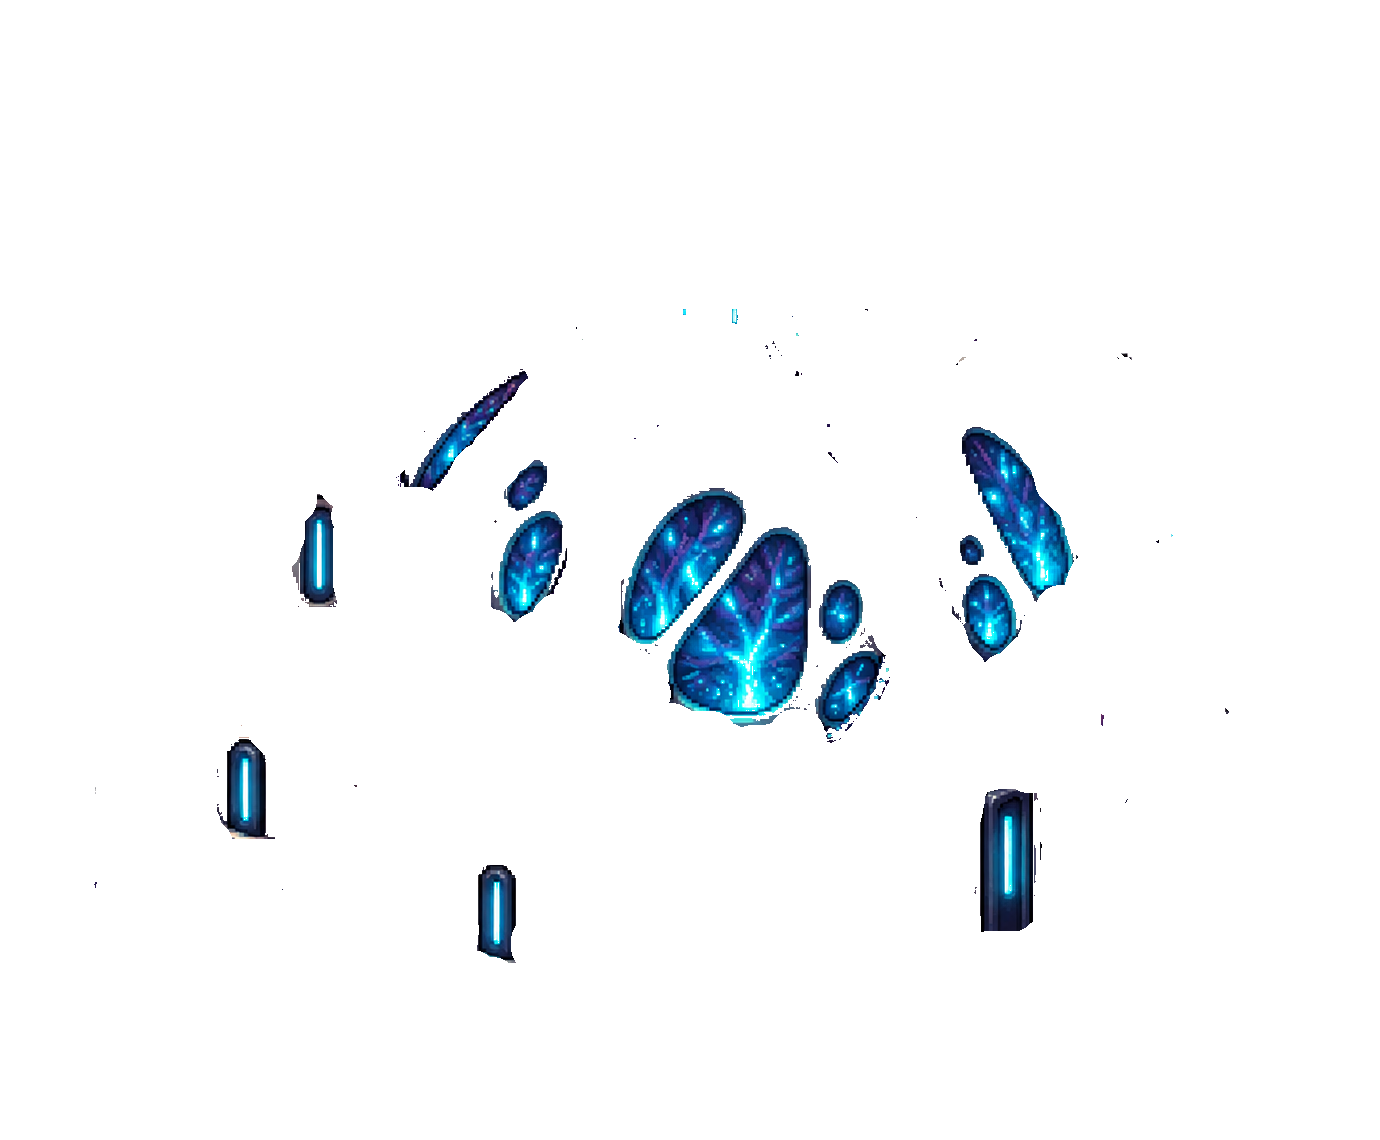
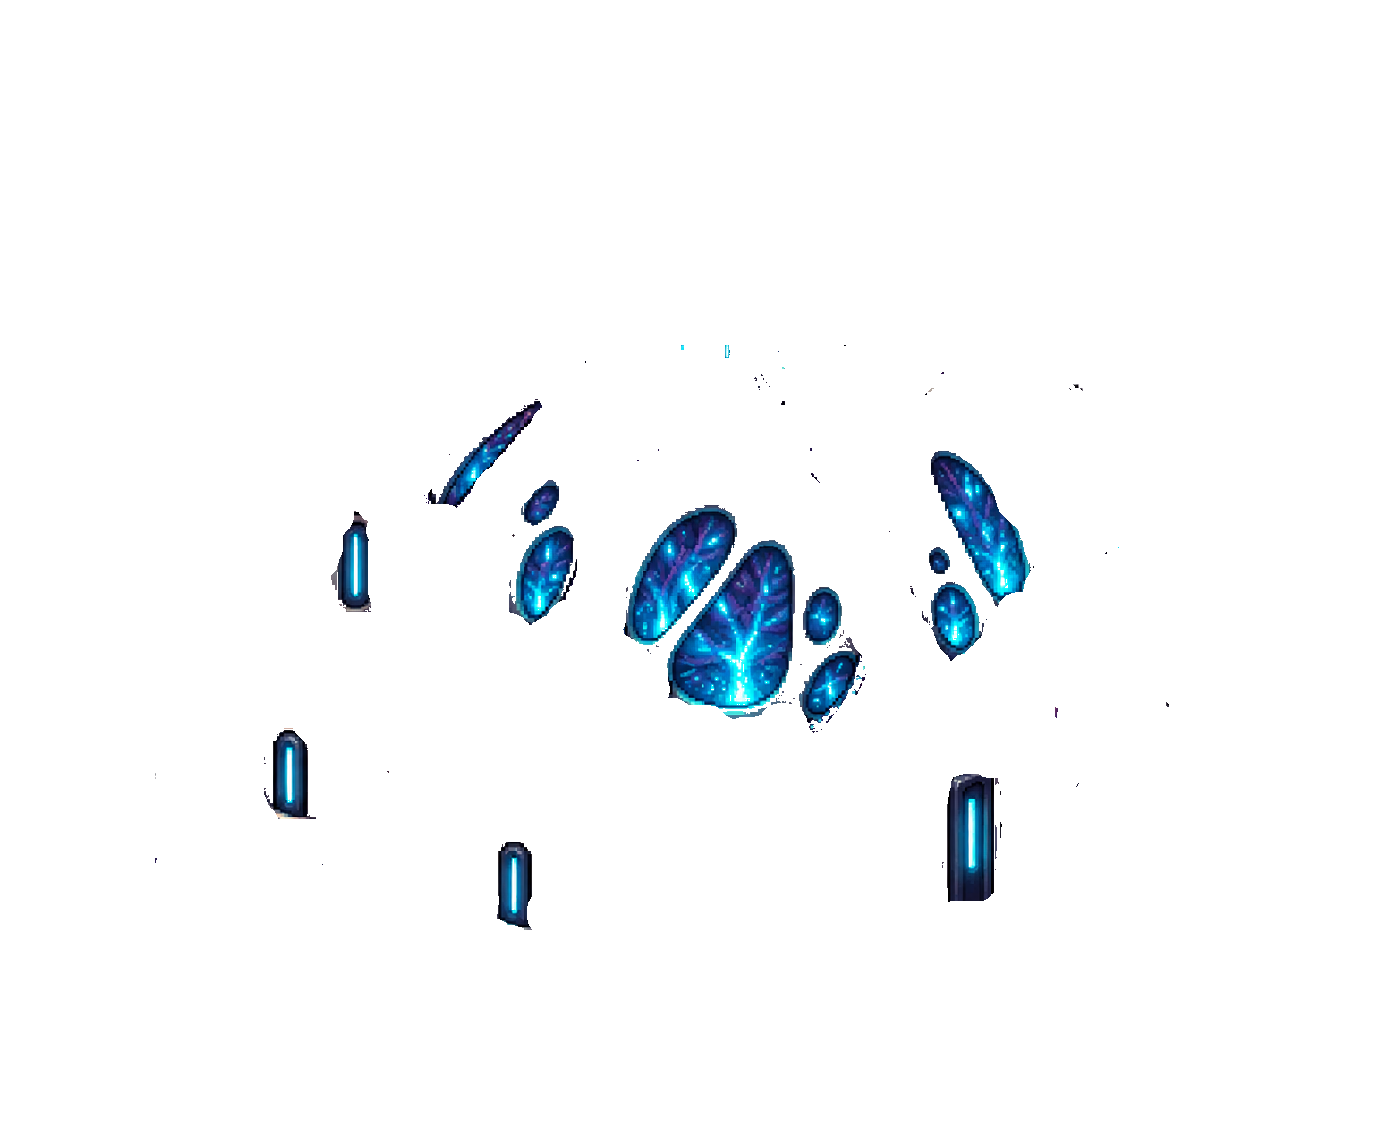
(polish) : the bioBattery assets are now sharing the same exact size

diff --git a/src/App.tsx b/src/App.tsx
@@ -65,9 +65,6 @@ function App() {
     "inactive",
   );
 
-  // const [hasBioBatteryBeenAnalyzed, setHasBioBatteryBeenAnalyzed] =
-  //   useState<boolean>(false);
-
   useEffect(() => {
     loadAssets()
       .then(setAssets)
@@ -210,7 +207,6 @@ function App() {
             newlyUnlockedAbility={newlyUnlockedAbility}
             bioBatteryStatus={bioBatteryStatus}
             unlockedAbilities={unlockedAbilities}
-            // hasBioBatteryBeenAnalyzed={hasBioBatteryBeenAnalyzed}
             mission={mission}
             progress={missionProgress}
             setInventory={setInventory}
